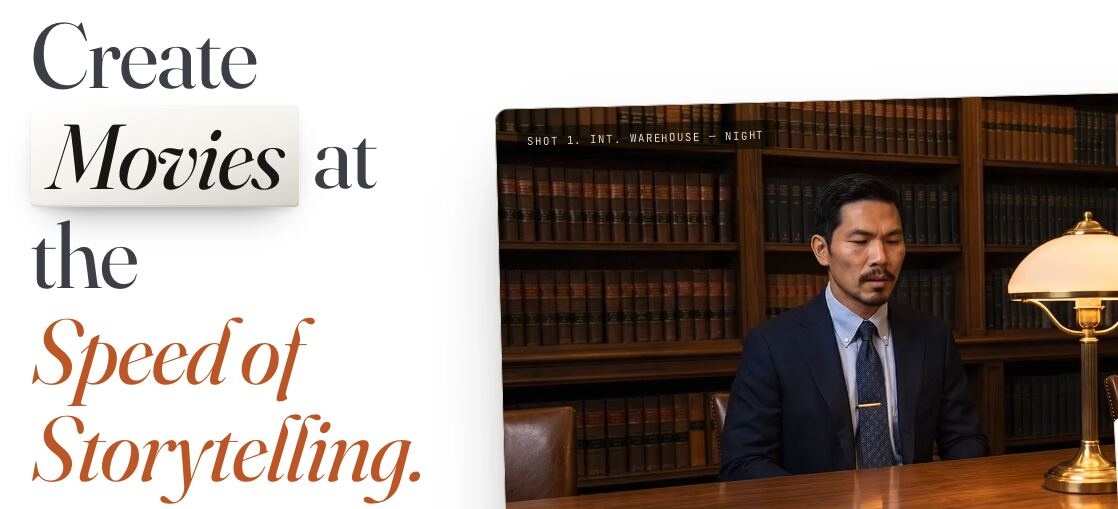
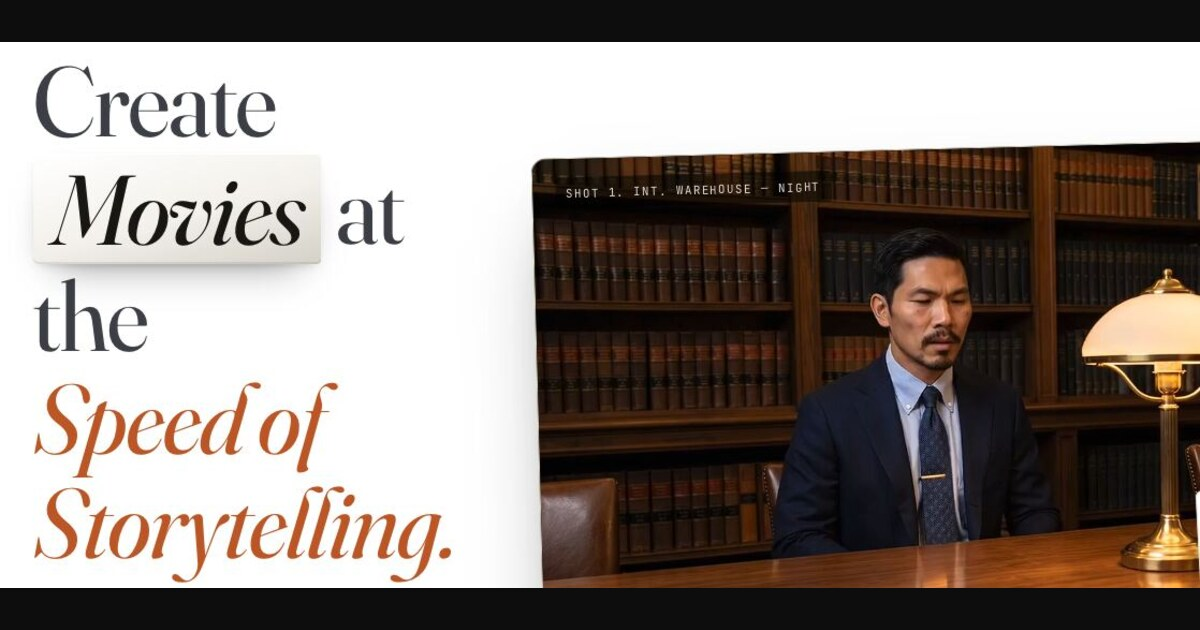
Bryan 20

diff --git a/docusaurus.config.ts b/docusaurus.config.ts
@@ -47,6 +47,51 @@ const config: Config = {
         content: "#C0531F",
       },
     },
+    // Explicit social-card image hints. themeConfig.image emits og:image /
+    // twitter:image, but crawlers (Facebook, LinkedIn) need width/height/type
+    // to render the card reliably on first scrape.
+    {
+      tagName: "meta",
+      attributes: {
+        property: "og:type",
+        content: "website",
+      },
+    },
+    {
+      tagName: "meta",
+      attributes: {
+        property: "og:image:type",
+        content: "image/jpeg",
+      },
+    },
+    {
+      tagName: "meta",
+      attributes: {
+        property: "og:image:width",
+        content: "1200",
+      },
+    },
+    {
+      tagName: "meta",
+      attributes: {
+        property: "og:image:height",
+        content: "630",
+      },
+    },
+    {
+      tagName: "meta",
+      attributes: {
+        property: "og:image:alt",
+        content: "ACT 3 — Create Movies at the Speed of Storytelling",
+      },
+    },
+    {
+      tagName: "meta",
+      attributes: {
+        name: "twitter:image:alt",
+        content: "ACT 3 — Create Movies at the Speed of Storytelling",
+      },
+    },
   ],
 
   future: {
